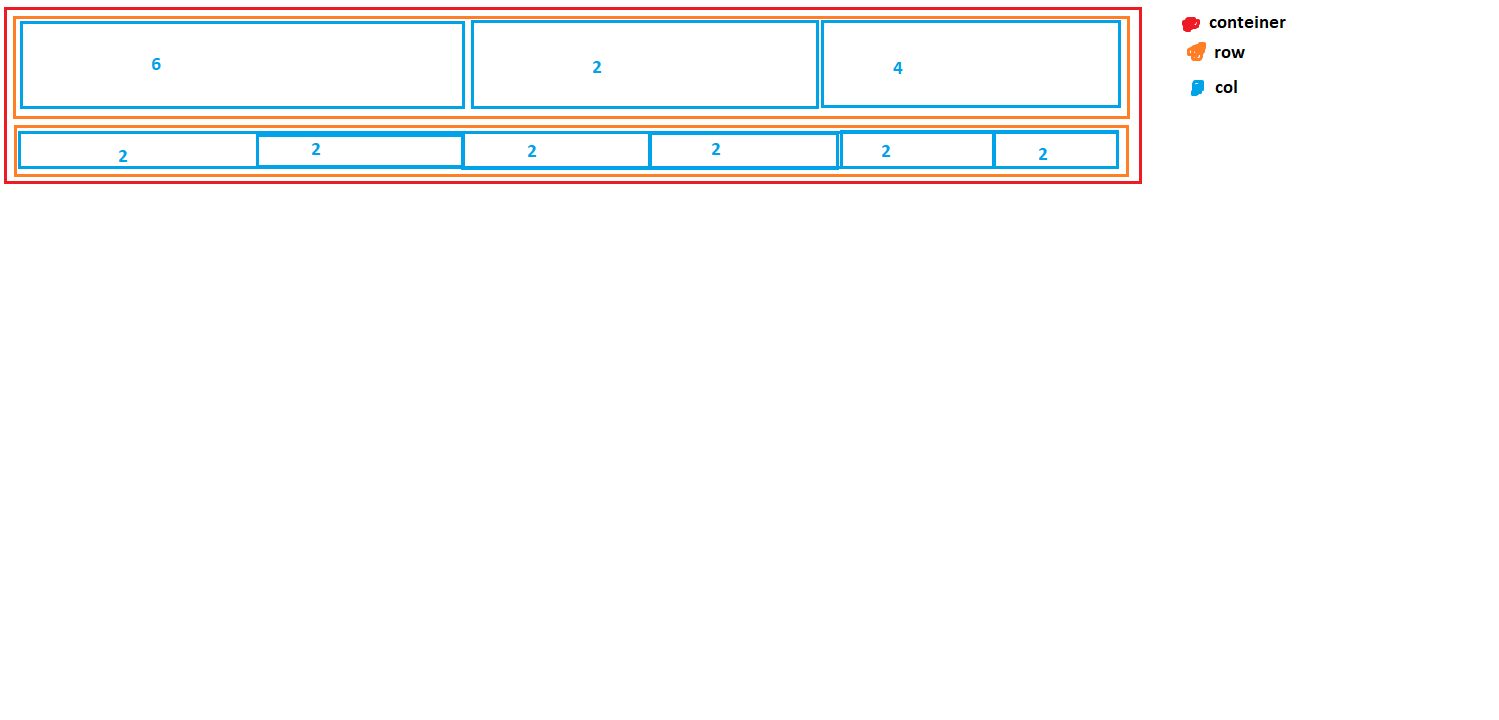
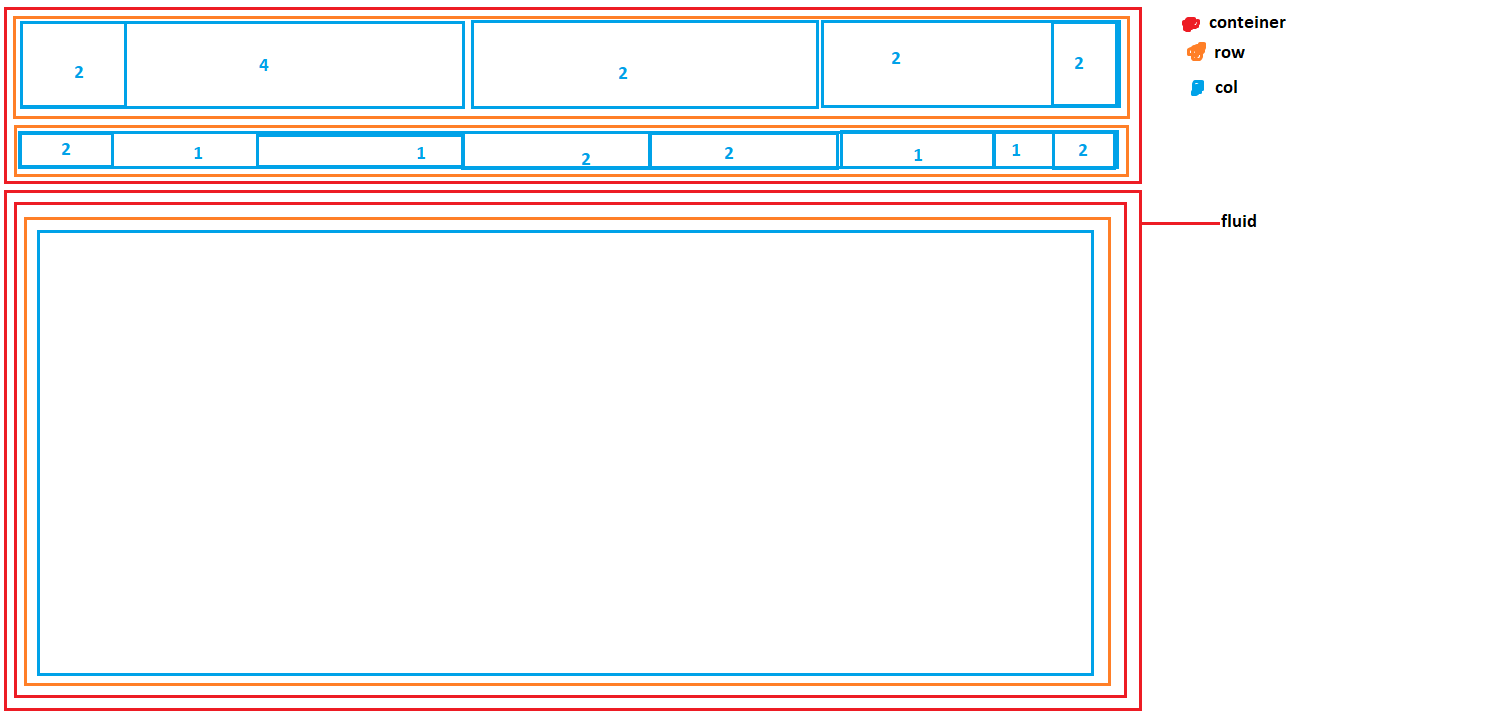
tela home

Changed region(s): [[0.0, 0.2444, 0.8286, 1.0], [0.0307, 0.1833, 0.0921, 0.2139], [0.6751, 0.1833, 0.7058, 0.2139]]

diff --git a/Site_Rotocrom/index.html b/Site_Rotocrom/index.html
@@ -8,45 +8,54 @@
     <link rel="stylesheet" href="../Boostrap/css/bootstrap.css"> <!-- Link para a biblioteca do bootstrap -->
     <link rel="stylesheet" href="../Boostrap/js/bootstrap.js"> <!-- Link para a biblioteca do bootstrap -->
 
-    <div class="container">
         <div class="conteiner">
-            <div class="row">
-                <div class="col col-sm-6 text-center bg-info border border-1 border-black">
-                    <!-- <img src="../img/Logo_rotocrom.png" class="w-25" alt="Logo_rotocrom"> -->
-                    <img src="../img/logo_rotocrom_degrade.png" class="w-50 p-2" alt="Logo_rotocrom">
+            <div class="row banner">
+                <div class="col-sm-2"></div>
+                <div class="col col-sm-4 text-center">
+                    <img src="../img/logo_rotocrom_degrade.png" class="w-50 mt-2 mb-2" alt="Logo_rotocrom">
+                </div>
+                <!-- Informações de contato-->
+                <div class="col-sm-2 text-center p-3 mt-1 texto_contatos"> 
+                    <div class="fundo_contatos"><img src="../img/telephone.svg" class="pe-2 pb-1" alt="Icone de telefone">+55 11 4486-8300</div>
+                </div>
+                <div class="col-sm-2 text-center p-3 mt-1 texto_contatos">
+                    <div class="fundo_contatos"><img src="../img/envelope.svg" class="pe-2 pb-1" alt="Icone de envelope/email">vendas@rotocrom.com.br</div>
                 </div>
                 <div class="col-sm-2"></div>
-                <div class="col-sm-2 text-center p-1 border border-1 border-black"> <!-- Informações de contato-->
-                    <div class="icone_telefone"><img src="../img/telephone.svg" class="me-3" alt="Icone de telefone">+55 11 4486-8300</div>
-                </div>
-                <div class="col-sm-2 text-center p-1 align-middle border border-1 border-black">
-                    <div><img src="../img/envelope.svg" class="me-3" alt="Icone de envelope/email">vendas@rotocrom.com.br</div>
-                </div>
             </div>
-            <div class="row mt-2 text-center"> <!-- Barra de menus -->
-                <div class="col-sm-2">
-                    <button type="button" class="btn btn-primary w-75">HOME</button>
+            <!-- Barra de menus -->
+            
+                <div class="row mt-2 text-center">
+                    <div class="col-sm-2 div_menu"></div>
+                    <div class="col-sm-1 menu p-2"><a href="" class="link">HOME</a>
+                    </div>
+                    <div class="col-sm-1 menu p-2"><a href="" class="link">SERVIÇOS</a>
+                    </div>
+                    <div class="col-sm-2 menu p-2"><a href="" class="link">SUSTENTABILIDADE</a>
+                    </div>
+                    <div class="col-sm-2 menu p-2"><a href="" class="link">EVENTOS</a>
+                    </div>
+                    <div class="col-sm-1 menu p-2"><a href="" class="link">SOBRE</a>
+                    </div>
+                    <div class="col-sm-1 menu p-2"><a href="" class="link">CONTATOS</a>
+                    </div>
+                    <div class="col-sm-2 div_menu"></div>
                 </div>
-                <div class="col-sm-2 ">
-                    <button type="button" class="btn btn-primary w-75">SERVIÇOS</button>
-                </div>
-                <div class="col-sm-2 ">
-                    <button type="button" class="btn btn-primary w-75">SUSTENTABILIDADE</button>
-                </div>
-                <div class="col-sm-2 ">
-                    <button type="button" class="btn btn-primary w-75">EVENTOS</button>
-                </div>
-                <div class="col-sm-2 ">
-                <button type="button" class="btn btn-primary w-75">SOBRE</button>
-                </div>
-                <div class="col-sm-2 ">
-                    <button type="button" class="btn btn-primary w-75">CONTATOS</button>
-                </div>
-            </div>
+            
         </div>
- </div>
 </head>
 <body>
+    <!--HOME-->
+    <div class="container-fluid mt-2 h-75" style="background-image: url(http://rotocrom.com/wp-content/uploads/2021/10/001-scaled.jpg);">
+        <div class="container h-100">
+            <div class="row h-100">
+               <div class="col-sm-12 h-100 d-flex align-content-center flex-wrap justify-content-center">
+                    <button class="btn btn-dark btn-lg">Nossos<br><b>SERVIÇOS</b></button>
+                </div>
+        </div>
+
+    </div>
+    
     
 </body>
 </html>

diff --git a/Site_Rotocrom/style.css b/Site_Rotocrom/style.css
@@ -1,0 +1,58 @@
+header{
+    margin: 0;
+}
+
+body{
+    margin: 0;
+}
+
+.banner{
+    background-color: #677f93;
+}
+
+html, body {
+    height: 100%;
+}
+
+.div_menu{
+    background-color: rgba(234, 234, 234, 0.634);
+}
+
+.menu{
+    font-weight: bold;
+    transition: 0.4s;
+    background-color: rgba(234, 234, 234, 0.634);
+}
+
+.menu:hover{
+    background-color: rgba(13, 142, 254, 0.176);
+    color: #677f93
+}
+
+.link{
+    text-decoration: none;
+}
+
+.link:hover{
+    color: #677f93
+}
+
+.link:visited{
+    color: black;
+}
+
+.link:active{
+    color: #677f93
+}
+
+
+.texto_contatos{
+    font-weight: bold;
+    color: black;
+}
+
+.fundo_contatos{
+    padding: 1px;
+    border-radius: 10px;
+    background-color: rgba(234, 234, 234, 0.102);
+}
